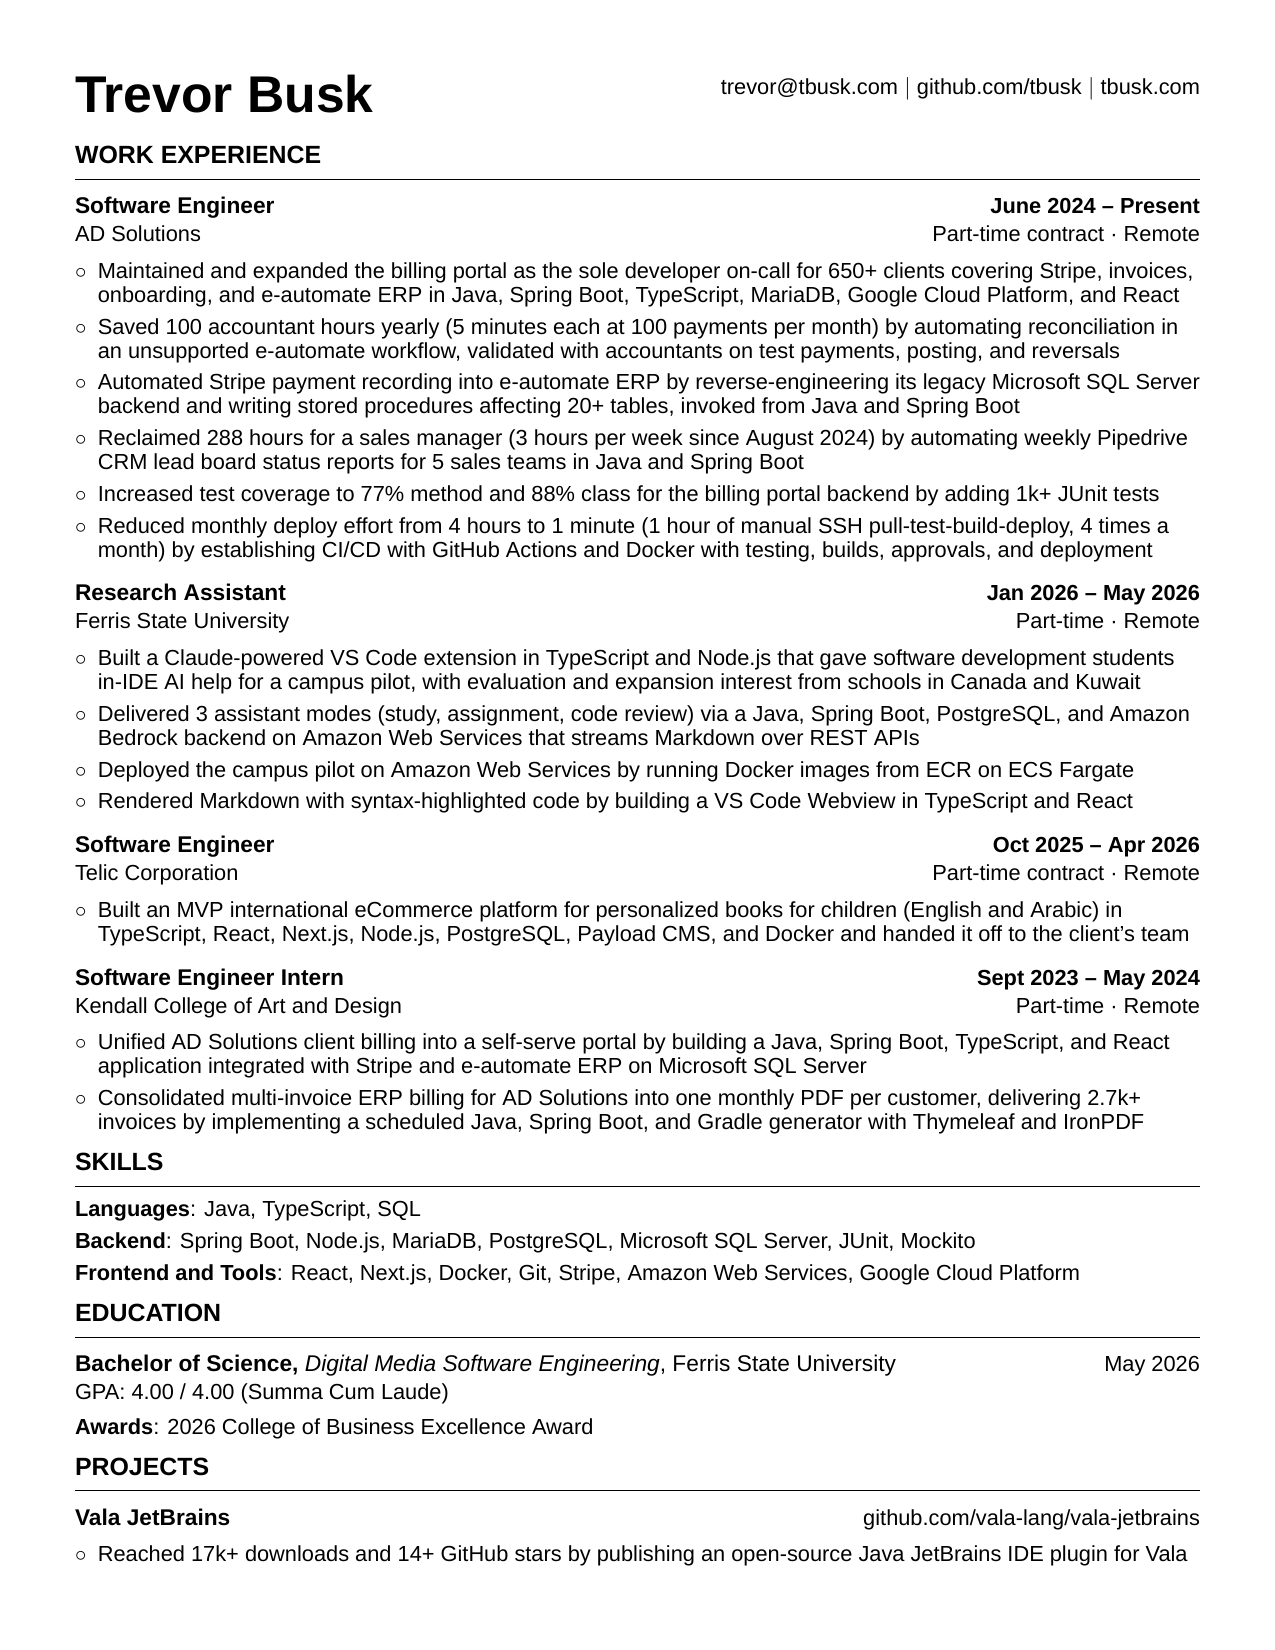
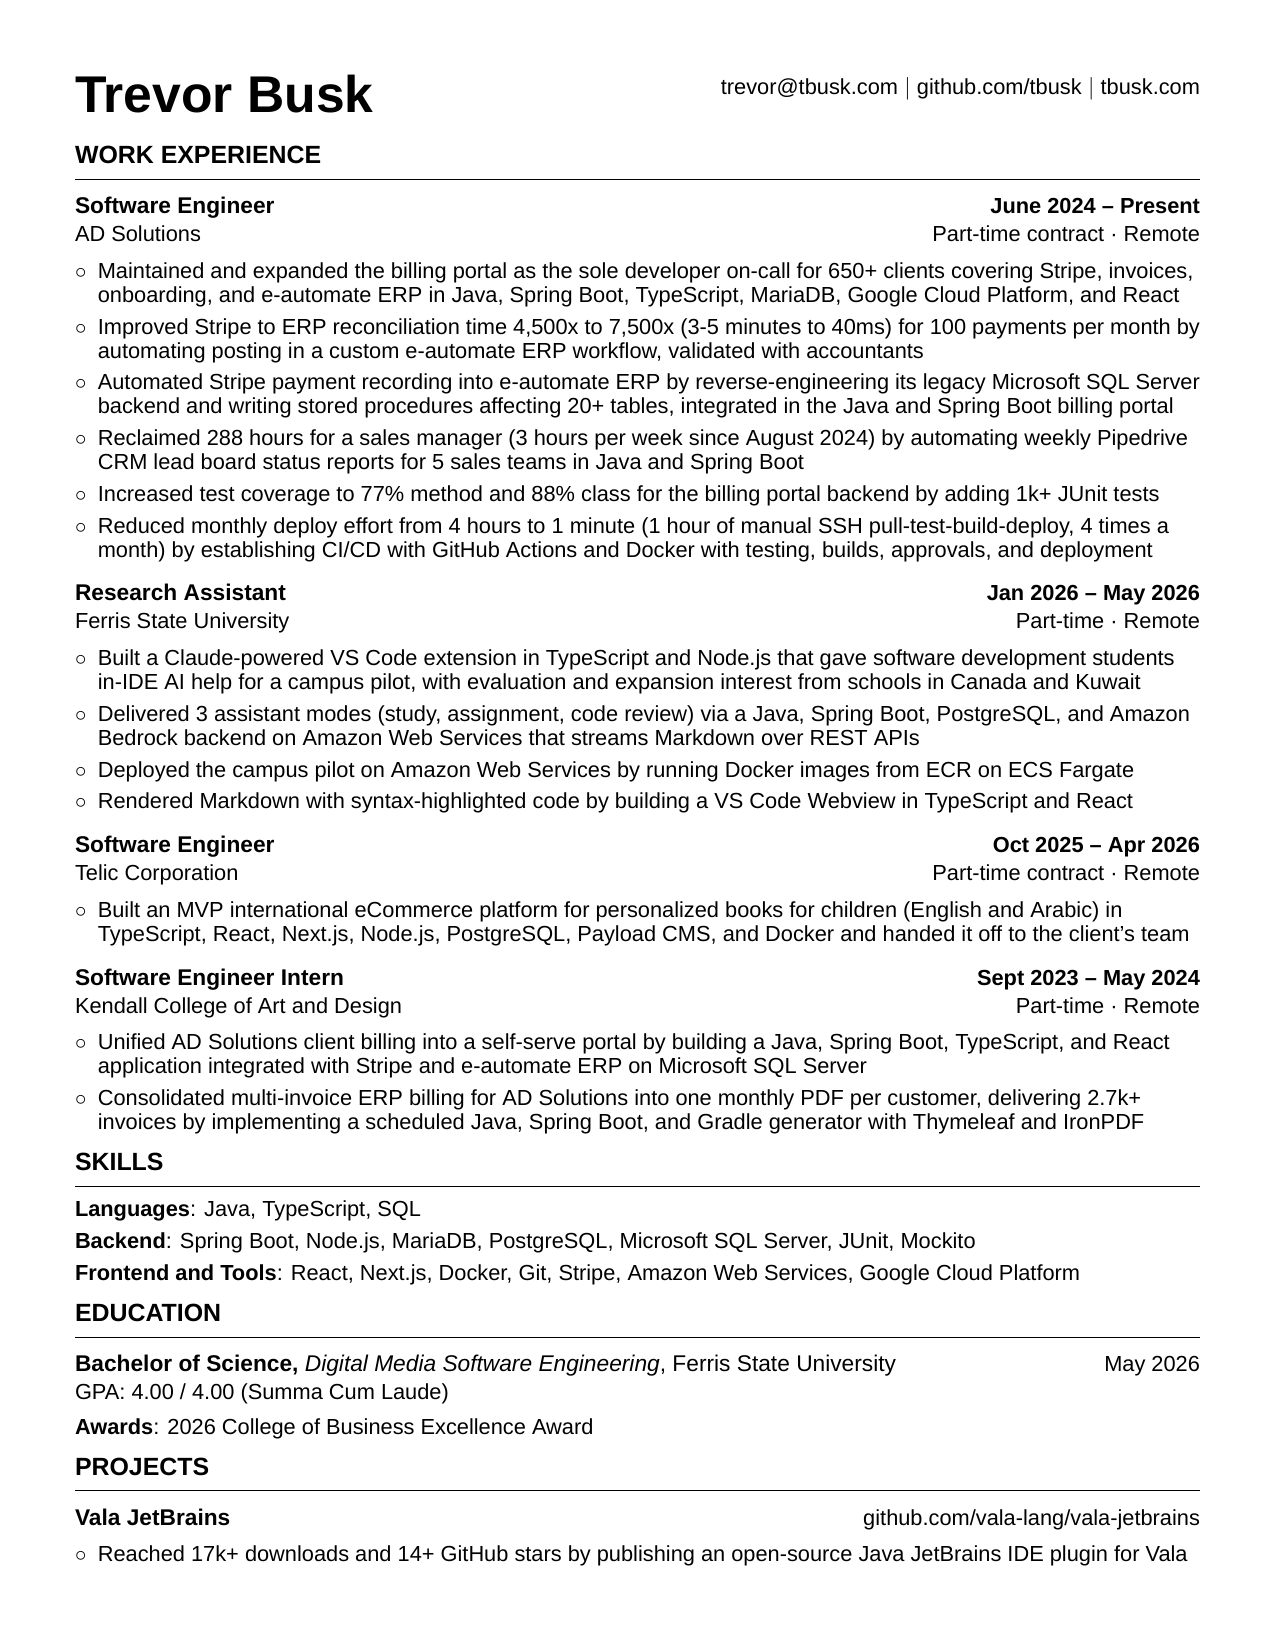
change: improve a few AD Solution bullet points

Changed region(s): [[0.0612, 0.1855, 0.9482, 0.2473]]

diff --git a/Resume.tex b/Resume.tex
@@ -92,8 +92,8 @@
 
     \rListBeginCircle
         \rPlainItem{Maintained and expanded the billing portal as the sole developer on-call for 650+ clients covering Stripe, invoices, onboarding, and e-automate ERP in Java, Spring Boot, TypeScript, MariaDB, Google Cloud Platform, and React}
-        \rPlainItem{Saved 100 accountant hours yearly (5 minutes each at 100 payments per month) by automating reconciliation in an unsupported e-automate workflow, validated with accountants on test payments, posting, and reversals}
-        \rPlainItem{Automated Stripe payment recording into e-automate ERP by reverse-engineering its legacy Microsoft SQL Server backend and writing stored procedures affecting 20+ tables, invoked from Java and Spring Boot}
+        \rPlainItem{Improved Stripe to ERP reconciliation time 4,500x to 7,500x (3-5 minutes to 40ms) for 100 payments per month by automating posting in a custom e-automate ERP workflow, validated with accountants}
+        \rPlainItem{Automated Stripe payment recording into e-automate ERP by reverse-engineering its legacy Microsoft SQL Server backend and writing stored procedures affecting 20+ tables, integrated in the Java and Spring Boot billing portal}
         \rPlainItem{Reclaimed 288 hours for a sales manager (3 hours per week since August 2024) by automating weekly Pipedrive CRM lead board status reports for 5 sales teams in Java and Spring Boot}
         \rPlainItem{Increased test coverage to 77\% method and 88\% class for the billing portal backend by adding 1k+ JUnit tests}
         \rPlainItem{Reduced monthly deploy effort from 4 hours to 1 minute (1 hour of manual SSH pull-test-build-deploy, 4 times a month) by establishing CI/CD with GitHub Actions and Docker with testing, builds, approvals, and deployment}
